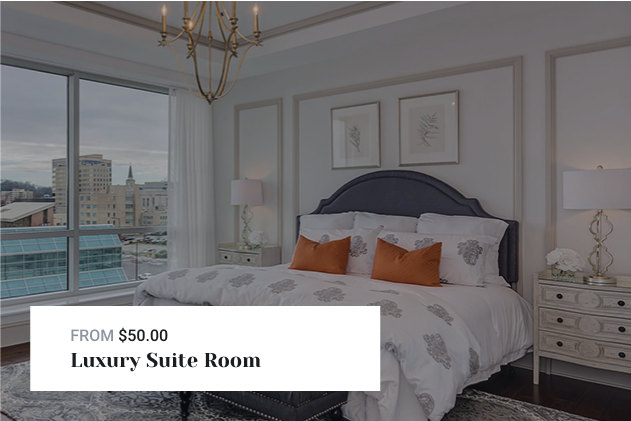
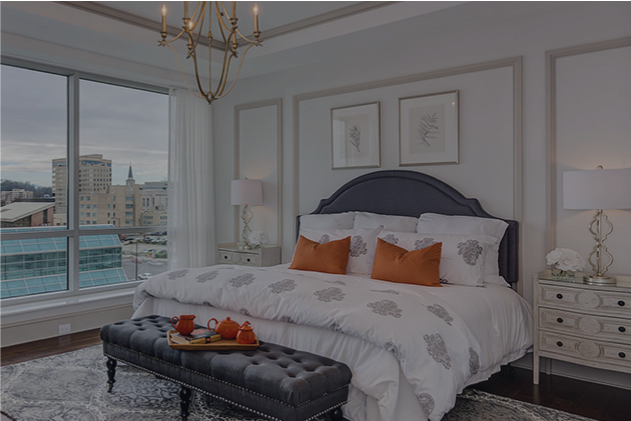
Gallery desktop completed

Changed region(s): [[0.0301, 0.7102, 0.6022, 0.9264]]

diff --git a/brookfield-country-club/src/components/Gallery.jsx b/brookfield-country-club/src/components/Gallery.jsx
@@ -1,28 +1,73 @@
 import React from 'react'
 import { gradient1, gradient2, gradient3, gradient4, gradient5 } from '../assets'
 import styles from '../style'
+import { Suites } from '../constants'
 
 const Gallery = () => {
   return (
-    <div className={`grid grid-rows-3 xs:grid-flow-col grid-flow-row w-full ${styles.marginY}`}>
-  <div className="col-span-2 h-fit">
-    <img src={gradient1} alt="" className='w-[450px]'/>
-  </div>
-  <div className="row-span-2 col-span-2 h-fit">
-    <img src={gradient2} alt="" className='w-[450px]'/>
+
+    <div className='items-center justify-center mt-7 h-fit'>
+
+        <div className="items-center justify-center content-center text-center">
+          <div className="flex flex-col text-center items-center">
+            <h1 className={`font-Yeseva One md:text-[48px] text-[22px] text-center mb-5`}>Rooms & Suites</h1>
+            <p className={`text-center md:w-full w-[80%] text-pgray mb-5`}>Lorem ipsum dolor sit, amet consectetur adipisicing elit. Molestias quidem, <br /> ea rerum excepturi quae facere mollitia exercitationem quia <br /> doloribus magnam nemo maiores sed dicta cumque?</p>
+          </div>
+        </div>
+
+
+        <div className='grid xs:grid-cols-3 grid-cols-1 md:grid-col-2 md:gap-x-6 gap-x-none gap-y-3 items-center content-center justify-center'>
     
-  </div>
-  <div className="row-span-3 h-fit object-contain flex-0.6">
-  <img src={gradient3} alt="" className='w-[450px] h-[600px]'/>
-  </div>
-   
-  <div className="col-span-2 h-fit">
-  <img src={gradient4} alt="" className='w-[450px]'/>
-  </div>
-  <div className="row-span-2 col-span-2 h-fit">
-  <img src={gradient5} alt="" className='w-[450px]'/>
-  </div>
-</div>
+      <div className="flex bg-[url('/src/assets/gradient1.png')] sticky object-contain w-[450px] h-[300px] bg-contain">
+          <div className='bg-white w-fit h-fit flex flex-col pl-[10px] pr-[80px] absolute bottom-4 left-2'>
+            <p>
+              <span className={`${styles.paragraph}`}>FROM </span>
+              <span className='font-semibold'>$49.99</span>
+            </p>
+            <h4 className='font-Yeseva One'>Balcony Room</h4>
+          </div>
+      </div>
+
+      <div className="flex bg-[url('/src/assets/gradient2.png')] w-[450px] md:h-[608px] h-[300px] bg-contain sticky md:row-span-2 row-span-1 bg-no-repeat">
+          <div className='bg-white w-fit h-fit flex flex-col pl-[10px] pr-[80px] absolute bottom-4 left-2 '>
+            <p>
+              <span className={`${styles.paragraph}`}>FROM </span>
+              <span className='font-semibold'>$99.99</span>
+            </p>
+            <h4 className='font-Yeseva One'>Superior Room</h4>
+          </div>
+      </div>
+      <div className="flex bg-[url('/src/assets/gradient3.png')] w-[450px] h-[300px] sticky bg-contain">
+          <div className='bg-white w-fit h-fit flex flex-col pl-[10px] pr-[80px] absolute bottom-4 left-2 '>
+            <p>
+              <span className={`${styles.paragraph}`}>FROM </span>
+              <span className='font-semibold'>$69.99</span>
+            </p>
+            <h4 className='font-Yeseva One'>Deluxe Room</h4>
+          </div>
+      </div>
+      <div className="flex bg-[url('/src/assets/gradient4.png')] w-[450px] h-[300px] sticky bg-contain">
+          <div className='bg-white w-fit h-fit flex flex-col pl-[10px] pr-[80px] absolute bottom-4 left-2'>
+            <p>
+              <span className={`${styles.paragraph}`}>FROM </span>
+              <span className='font-semibold'>79.99</span>
+            </p>
+            <h4 className='font-Yeseva One'>Sea View Room</h4>
+          </div>
+      </div>
+      <div className="flex bg-[url('/src/assets/gradient5.png')] w-[450px] h-[300px] sticky  bg-contain">
+          <div className='bg-white w-fit h-fit flex flex-col pl-[10px] pr-[80px] absolute bottom-4 left-2 '>
+            <p>
+              <span className={`${styles.paragraph}`}>FROM </span>
+              <span className='font-semibold'>$89.99</span>
+            </p>
+            <h4 className='font-Yeseva One'>Luxury Suite Room</h4>
+          </div>
+      </div>
+
+    </div>
+    </div>
+    
   )
 }
 

diff --git a/brookfield-country-club/src/constants/index.js b/brookfield-country-club/src/constants/index.js
@@ -62,31 +62,31 @@ export const Discounts = [
     },
 ];
 
-export const Suits = [
+export const Suites = [
     {
         img: gradient1,
         title: 'Balcony Room',
-        price: '$39.99'
+        price: 'FROM $39.99'
     },
     {
         img: gradient2,
         title: 'Sea View Room',
-        price: '$49.99'
+        price: 'FROM $49.99'
     },
     {
         img: gradient3,
         title: 'Superior Room',
-        price: '$59.99'
+        price: 'FROM $59.99'
     },
     {
         img: gradient4,
         title: 'Deluxe Room',
-        price: '$69.99'
+        price: 'FROM $69.99'
     },
     {
         img: gradient5,
         title: 'Luxury Suite Room',
-        price: '$89.99'
+        price: 'FROM $89.99'
     },
 ];
 

diff --git a/brookfield-country-club/src/components/Challenges.jsx b/brookfield-country-club/src/components/Challenges.jsx
@@ -25,7 +25,7 @@ const Challenges = () => {
 
   return (
     <div className={`items-ceter xs:flex flex-1 justify-between ${styles.marginX}`}>
-      <div className='flex flex-col-reverse'>
+      <div className='flex xs:flex-col flex-col-reverse'>
 
         <div className='flex flex-col'>
           <h1 className={`${styles.heading1} text-[26px]`}>
